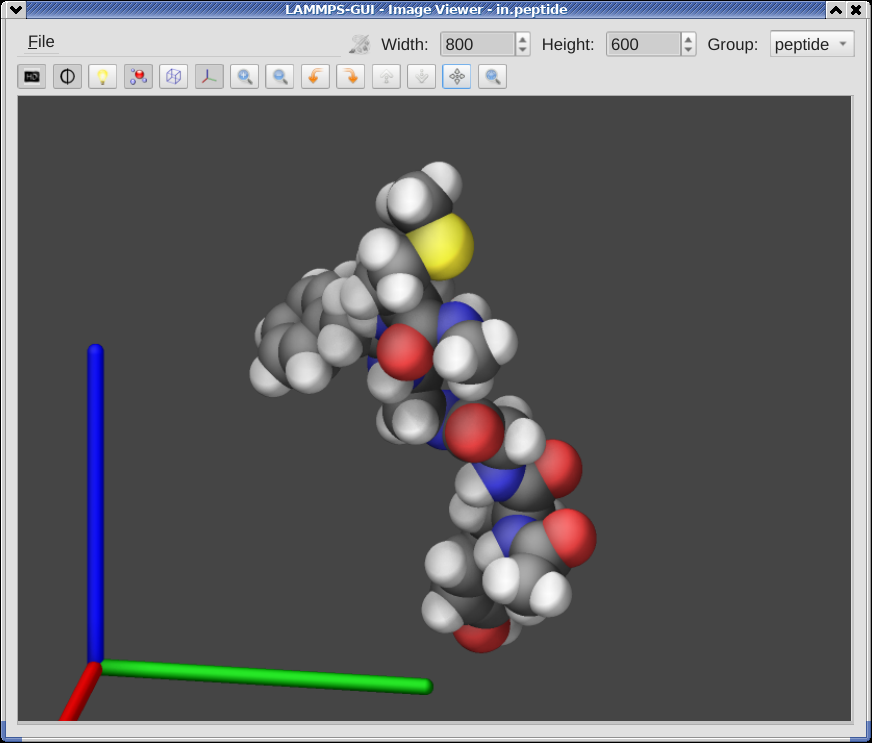
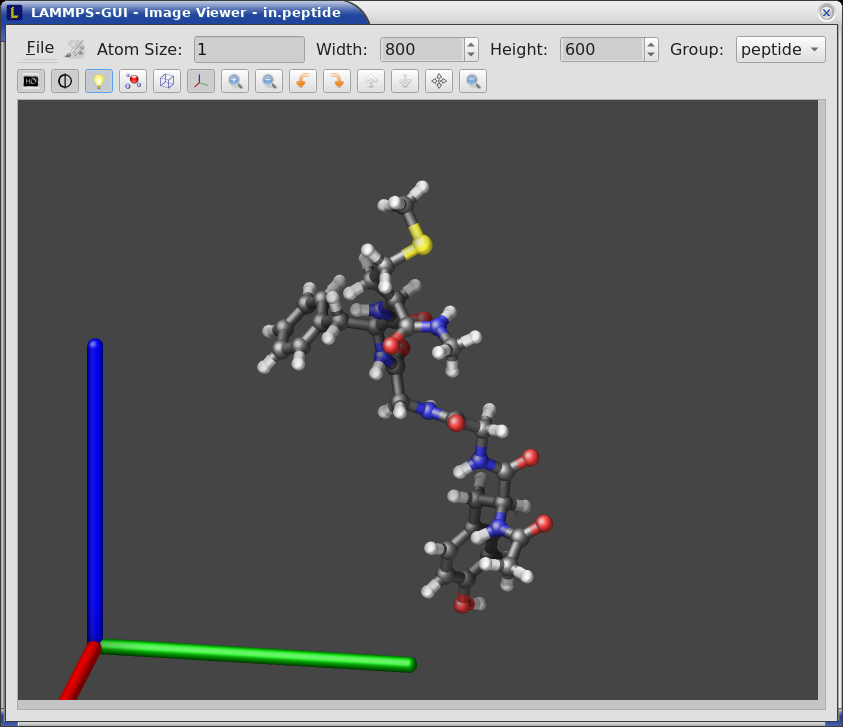
LAMMPS-GUI doc update

Changed region(s): [[0.0, 0.0, 1.0, 1.0], [0.2776, 0.2118, 0.7094, 0.8776]]

diff --git a/doc/src/Howto_lammps_gui.rst b/doc/src/Howto_lammps_gui.rst
@@ -437,16 +437,21 @@ instance when using reduced (= 'lj') :doc:`units <units>`, then
 LAMMPS-GUI will check the current pair style and if it is a
 Lennard-Jones type potential, it will extract the *sigma* parameter
 for each atom type and assign atom diameters from those numbers.
+For cases where atom diameters are not auto-detected, the *Atom size* field
+can be edited and a suitable value set manually. The default value
+is inferred from the x-direction lattice spacing.
 
-Otherwise the default sequence of colors of the :doc:`dump image
-<dump_image>` command is assigned to the different atom types and the
-diameters are all the same.
+If elements cannot be detected the default sequence of colors of the
+:doc:`dump image <dump_image>` command is assigned to the different atom
+types.
 
-.. figure:: JPG/lammps-gui-image.png
-   :align: center
-   :scale: 50%
+.. |gui-image1| image:: JPG/lammps-gui-image.png
+   :width: 48%
 
-   Visualization of LAMMPS "peptide" example
+.. |gui-image2| image:: JPG/lammps-gui-funnel.png
+   :width: 48%
+
+|gui-image1|  |gui-image2|
 
 The default image size, some default image quality settings, the view
 style and some colors can be changed in the *Preferences* dialog